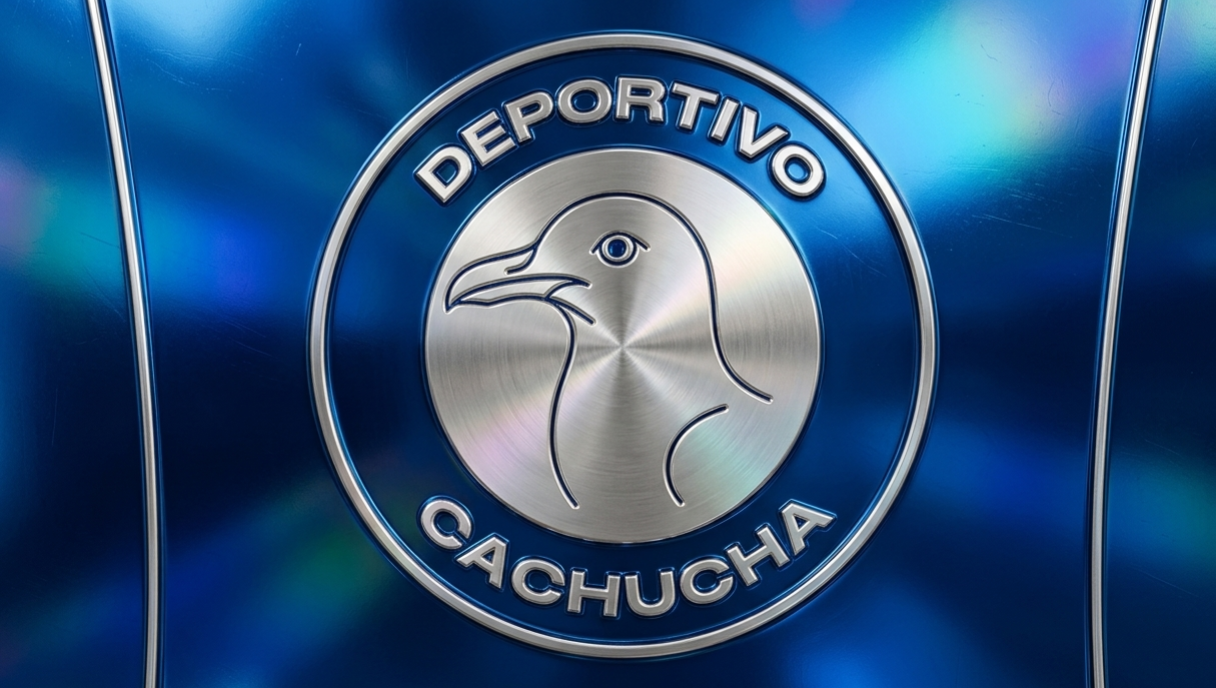
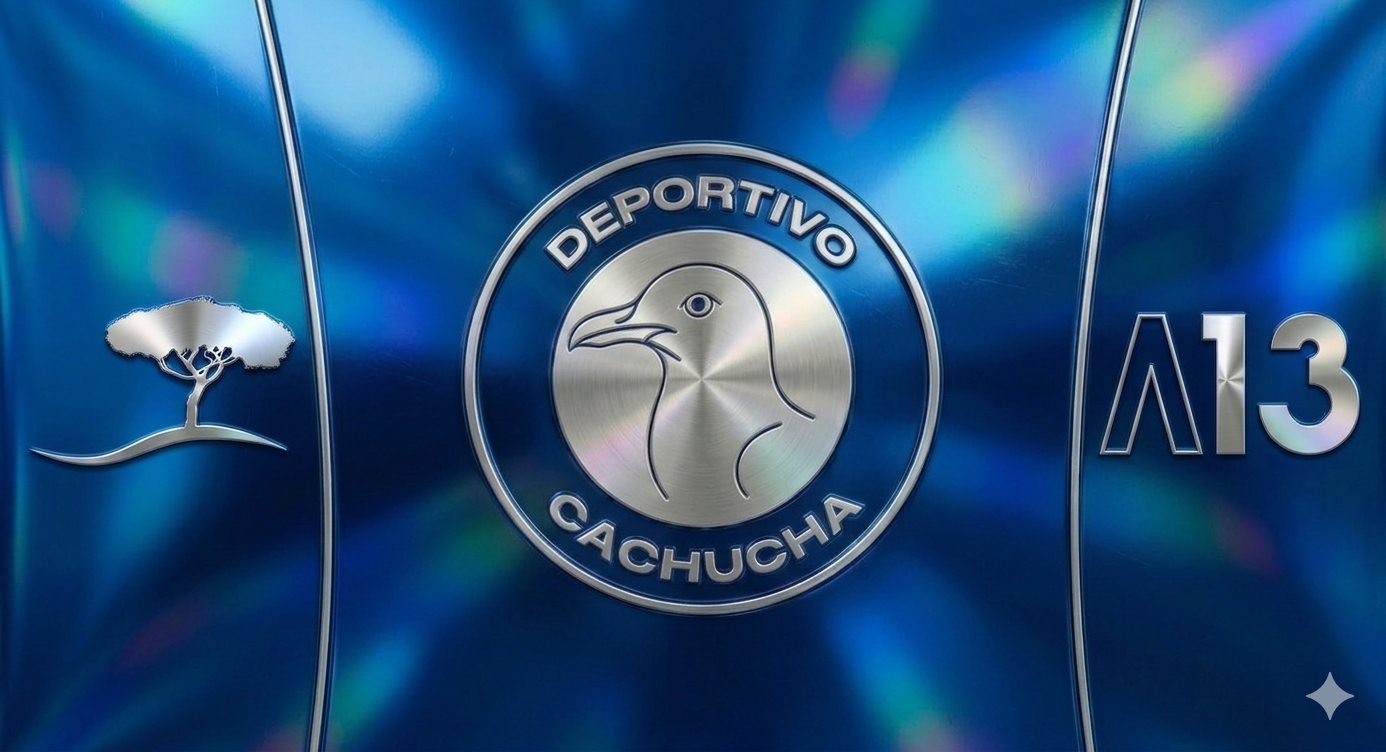
Tercer commit: Navbar, hero y Botón hamburguesa.

diff --git a/styles.css b/styles.css
@@ -1,17 +1,36 @@
+/* --- 1. RESET Y BASE --- */
 * {
     margin: 0;
     padding: 0;
     box-sizing: border-box;
 }
 
+body {
+    background-color: #000;
+    font-family: 'Arial Black', 'Arial', sans-serif;
+    overflow-x: hidden; /* Evita scroll horizontal por animaciones */
+    width: 100%;
+}
+
+/* --- 2. NAVBAR (Ajustado para el botón) --- */
 .barra-navegacion {
     background-color: #1e73be; 
     color: white;
-    padding: 15px 10px; 
+    height: 80px;
     width: 100%;
-    box-shadow: 0 4px 10px rgba(0, 0, 0, 0.1);
-    /* Importante para que las letras no se corten al subir */
-    overflow: visible; 
+    box-shadow: 0 4px 10px rgba(0, 0, 0, 0.3);
+    position: relative;
+    z-index: 100; /* Siempre por encima del Hero */
+    display: flex;
+    align-items: center;
+}
+
+.contenedor-navbar {
+    width: 100%;
+    padding: 0 20px;
+    display: flex;
+    justify-content: space-between; /* Logo a la izquierda, Botón a la derecha */
+    align-items: center;
 }
 
 .contenedor-logo {
@@ -20,50 +39,81 @@
     gap: 12px;
 }
 
+/* --- 3. TÍTULO (Efecto Wave Plateado) --- */
 .nombre-club {
-    font-family: 'Arial Black', 'Arial', sans-serif;
     font-style: italic; 
     font-weight: 900;
     font-size: 1.8rem;
-    margin-left: 10px;
-    display: flex; /* Mantiene las letras en una sola línea */
+    display: flex;
+    color: white;
 }
 
-/* Letras individuales */
 .nombre-club span {
     display: inline-block;
     transition: transform 0.3s ease;
 }
 
-/* Animación Wave */
 .nombre-club:hover span {
     animation: saltito 0.5s ease-in-out forwards;
-    animation-delay: calc(0.06s * var(--i)); /* Un poco más rápido para efecto fluido */
+    animation-delay: calc(0.06s * var(--i));
 }
 
 @keyframes saltito {
     0%, 100% { transform: translateY(0); }
-    50% { transform: translateY(-15px); }
+    50% { 
+        transform: translateY(-15px); 
+        color: #e0e0e0; /* Plata */
+        text-shadow: 0 0 8px rgba(255, 255, 255, 0.8); 
+    }
 }
 
-/* Logo Magnético */
+/* --- 4. ESCUDO (Magnético) --- */
 .imagen-logo {
     height: 40px; 
     width: auto;
-    display: block; 
-    cursor: pointer;
-    /* Suavizado profesional: efecto elástico al soltar */
+    display: block;
     transition: transform 0.3s cubic-bezier(0.23, 1, 0.32, 1);
-    will-change: transform; /* Ayuda al navegador a suavizar la animación */
+    will-change: transform;
 }
+
+/* --- 5. PERSONALIZACIÓN HAMBURGUESA --- */
+.hamburger-inner, .hamburger-inner::before, .hamburger-inner::after {
+    background-color: #fff !important; /* Rayitas blancas */
+}
+
+/* --- 6. HERO CON FOTO DE FONDO --- */
 .hero {
-    background-image: url('img/banderametalica.png');
-    background-size: 100% 100%; /* Fuerza a que ocupe todo el ancho y alto */
-    background-repeat: no-repeat;
-    
+    /* Altura: 100% de la ventana menos el navbar */
+    height: calc(100vh - 80px);
     width: 100%;
-    /* Calculamos la altura basada en el ancho (Relación de aspecto) */
-    aspect-ratio: 16 / 9; /* Ajusta este número según si tu imagen es muy alargada o más cuadrada */
-    
-    height: auto; 
+    position: relative;
+    z-index: 1; 
+    overflow: hidden; 
+
+    /* Configuración de la imagen de fondo */
+    background-image: url('img/banderametalica.png');
+    background-size: cover;
+    background-position: center;
+    background-repeat: no-repeat;
+}
+
+
+/* Capa de Brillo Metalizado Dinámico */
+.hero-overlay {
+    position: absolute;
+    top: 0; left: 0; width: 100%; height: 100%;
+    z-index: 2;
+    background: linear-gradient(
+        110deg,
+        transparent 30%,
+        rgba(255,255,255,0.08) 50%,
+        transparent 70%
+    );
+    background-size: 200% 100%;
+    animation: brilloOndulante 4s infinite linear;
+}
+
+@keyframes brilloOndulante {
+    0% { background-position: -200% 0; }
+    100% { background-position: 200% 0; }
 }

diff --git a/index.html b/index.html
@@ -3,22 +3,33 @@
 <head>
     <meta charset="UTF-8">
     <meta name="viewport" content="width=device-width, initial-scale=1.0">
-    <title>DeportivoCachucha/LandingPage</title>
+    <title>Deportivo Cachucha | Oficial</title>
+    <link rel="stylesheet" href="https://cdnjs.cloudflare.com/ajax/libs/hamburgers/1.2.1/hamburgers.min.css">
     <link rel="stylesheet" href="styles.css">
 </head>
-<main>
-     <section class="hero">
-        <div class="hero-content">
-            </div>
-    </section>
-</main>
 <body>
+
     <header class="barra-navegacion">
-        <div class="contenedor-logo">
-            <h1 class="nombre-club" id="titulo-animado">DEPORTIVO CACHUCHA</h1>
-            <img src="img/cachucha.png" alt="Bandera Deportivo Cachucha" class="imagen-logo" id="logo-magnetico">
+        <div class="contenedor-navbar">
+            <div class="contenedor-logo">
+                <h1 class="nombre-club" id="titulo-animado">DEPORTIVO CACHUCHA</h1>
+                <img src="img/cachucha.png" alt="Logo" class="imagen-logo" id="logo-magnetico">
+            </div>
+
+            <button class="hamburger hamburger--emphatic" type="button" id="boton-menu">
+                <span class="hamburger-box">
+                    <span class="hamburger-inner"></span>
+                </span>
+            </button>
         </div>
     </header>
+
+    <main>
+        <section class="hero">
+            <div class="hero-overlay"></div>
+        </section>
+    </main>
+
     <script src="script.js"></script>
 </body>
 </html>

diff --git a/script.js b/script.js
@@ -1,36 +1,41 @@
 document.addEventListener('DOMContentLoaded', () => {
     
-    // --- 1. EFECTO DE LETRAS SALTARINAS (Wave) ---
+    // --- 1. ACTIVACIÓN DEL BOTÓN HAMBURGUESA EMPHATIC ---
+    const menuBtn = document.getElementById('boton-menu');
+    if (menuBtn) {
+        menuBtn.addEventListener('click', () => {
+            // Alterna la clase is-active para activar la animación de jonsuh.com
+            menuBtn.classList.toggle('is-active');
+        });
+    }
+
+    // --- 2. EFECTO DE LETRAS SALTARINAS (Título) ---
     const titulo = document.getElementById('titulo-animado');
     if (titulo) {
-        const texto = titulo.textContent; // textContent es ligeramente más rápido que innerText
+        const texto = titulo.textContent; 
         titulo.textContent = ""; 
 
-        // Usamos el operador spread [...] para manejar mejor los caracteres
         [...texto].forEach((letra, i) => {
             const span = document.createElement("span");
-            // Usamos textContent y el espacio irrompible
             span.textContent = letra === " " ? "\u00A0" : letra;
             span.style.setProperty('--i', i);
             titulo.appendChild(span);
         });
     }
 
-    // --- 2. EFECTO MAGNÉTICO (Logo) ---
+    // --- 3. EFECTO MAGNÉTICO (Escudo) ---
     const logo = document.querySelector('#logo-magnetico');
     if (logo) {
         logo.addEventListener('mousemove', (e) => {
             const { left, top, width, height } = logo.getBoundingClientRect();
             
-            // Calculamos la distancia desde el centro de la imagen
-            const x = (e.clientX - (left + width / 2)) * 0.4; // Bajamos un poco la fuerza (0.4)
+            const x = (e.clientX - (left + width / 2)) * 0.4;
             const y = (e.clientY - (top + height / 2)) * 0.4;
             
             logo.style.transform = `translate(${x}px, ${y}px) scale(1.15)`;
         });
 
         logo.addEventListener('mouseleave', () => {
-            // El logo vuelve suavemente gracias al CSS
             logo.style.transform = `translate(0px, 0px) scale(1)`;
         });
     }